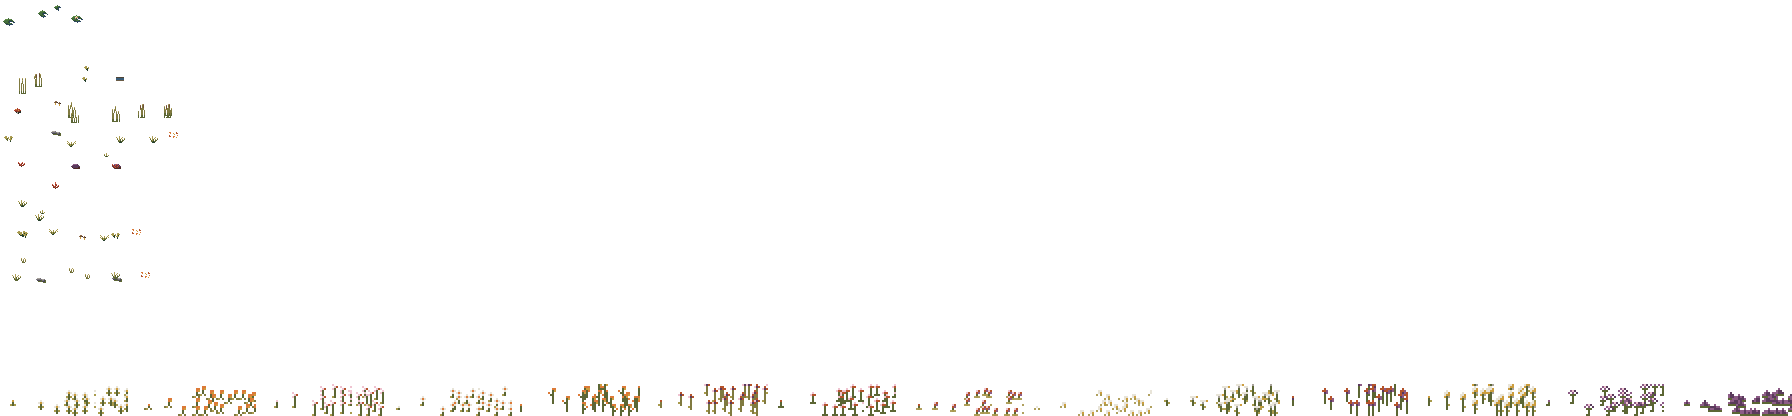
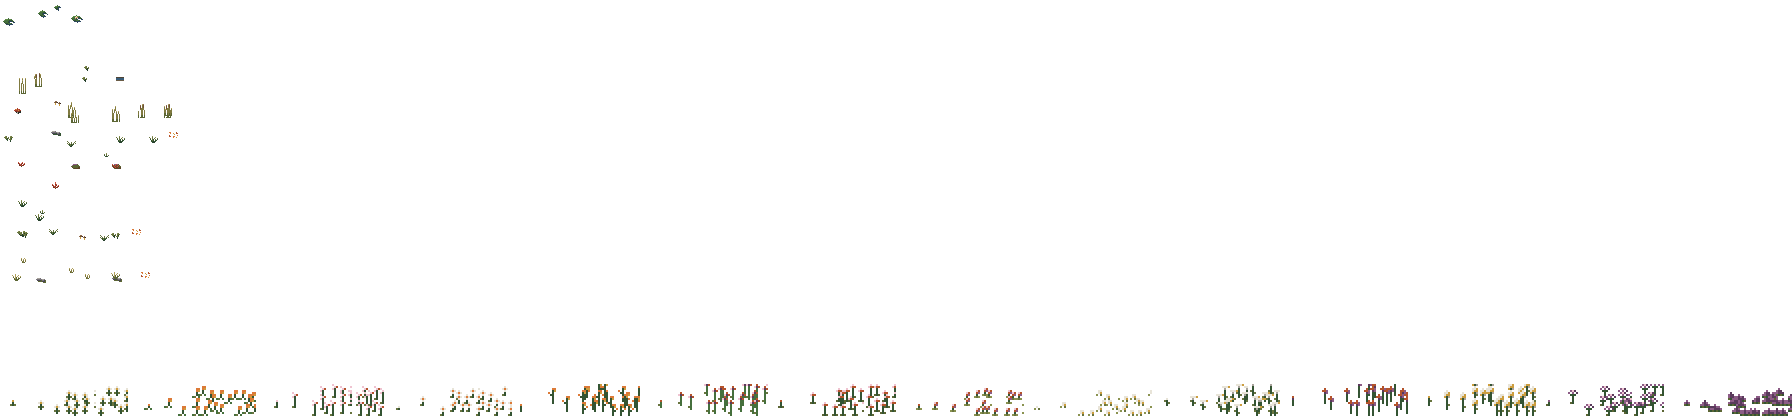
Seasons: autumn keeps the marsh green, straw only on the dry grass
From the art review (2026-11-08): autumn turned all grass one straw yellow, so reeds, tall
grass and the willow vanished into it. Now the ground's autumn look is by terrain layer
(seasons.LAYER_REMAPS): the grass of the marsh, the floodplain, the Warft and the paths stay
green with olive tips and withered flowers, as the marsh stays green until November, and
only the dry grass of the Geest turns straw. The salt marsh reads as marsh too: its turf
stays olive in autumn with patches of red-purple glasswort (it was purple all over with rust
blotches), and in summer its patches are a cool green, not dry grass.

diff --git a/tools/art/seasons.py b/tools/art/seasons.py
@@ -62,6 +62,7 @@ _SPRING_GREENS = {
     "green": "spring",
     "green_dark": "spring_dark",
 }
+# Autumn straw and yellow: the dry grass of the Geest, the dyke and the tall grass.
 _AUTUMN_GRASS = {
     "green_bright": "straw",
     "green_light": "autumn_light",
@@ -72,6 +73,16 @@ _AUTUMN_GRASS = {
     "meadow": "olive",
     "meadow_light": "reed",
     # Flowers wither to dry heads and fallen leaves.
+    "cream": "ochre",
+    "gold": "flame",
+    "petal": "rust",
+}
+# Autumn everywhere else: the grass of the marsh stays green until November, only its tips and
+# the damp meadow's turn olive, and its flowers wither.
+_AUTUMN_MARSH = {
+    "green_bright": "dry_light",
+    "green_light": "dry",
+    "meadow_light": "dry",
     "cream": "ochre",
     "gold": "flame",
     "petal": "rust",
@@ -145,13 +156,15 @@ _FROST_STALKS = {"green_bright": "snow_light", "green_light": "snow_shadow", "gr
 GROUND_REMAPS = {
     "spring": _SPRING_GREENS,
     "summer": {},
-    "autumn": _AUTUMN_GRASS,
+    "autumn": _AUTUMN_MARSH,
     "bare": _BARE_GROUND,
     "frost": _FROST_GROUND,
     "snow": _WINTER_GROUND,
     # Only its decorations use this; see terrain_rows.
     "dusting": _FROST_GROUND,
 }
+# The terrain layers (terrain.LAYERS, by name) whose look differs from the rest of the ground's.
+LAYER_REMAPS = {"autumn": {"dry_grass": _AUTUMN_GRASS}}
 # What decoration tufts and plants turn into: dry stalks from the bare look on.
 STANDING = {"bare": WINTER_STALKS, "frost": _FROST_STALKS, "snow": WINTER_STALKS, "dusting": _FROST_STALKS}
 
@@ -161,10 +174,10 @@ STANDING = {"bare": WINTER_STALKS, "frost": _FROST_STALKS, "snow": WINTER_STALKS
 SALT_MARSH_LOOKS = {
     "spring": {"salt": "dry", "salt_patch": "olive", "salt_light": "spring_light",
                "salt_dark": "green_dark", "glasswort": "spring", "glasswort_dark": "spring_dark"},
-    "summer": {"salt": "olive", "salt_patch": "dry", "salt_light": "frost",
+    "summer": {"salt": "olive", "salt_patch": "meadow", "salt_light": "frost",
                "salt_dark": "green_dark", "glasswort": "green_bright", "glasswort_dark": "green_light"},
-    "autumn": {"salt": "heather_dark", "salt_patch": "rust_dark", "salt_light": "heather",
-               "salt_dark": "russet_deep", "glasswort": "red_light", "glasswort_dark": "rust_dark"},
+    "autumn": {"salt": "olive", "salt_patch": "heather_dark", "salt_light": "heather",
+               "salt_dark": "umber", "glasswort": "red_light", "glasswort_dark": "rust_dark"},
     "bare": {"salt": "bare", "salt_patch": "mud", "salt_light": "bare_light",
              "salt_dark": "mud_dark", "glasswort": "umber", "glasswort_dark": "soil_dark"},
     "frost": {"salt": "frost", "salt_patch": "snow_shadow", "salt_light": "snow_shadow",
@@ -299,12 +312,18 @@ def remap(canvas, mapping):
     return [[mapping.get(name, name) for name in row] for row in canvas]
 
 
-def ground_rows(look, rows, extra_remap=None):
-    """Terrain or decoration rows (the layers bottom to top) in a look, with `extra_remap`
-    applied over the look's own and the salt marsh's logical colours made real. Water stays as it
-    is: freezing it belongs to the weather."""
-    mapping = {**GROUND_REMAPS[look], **SALT_MARSH_LOOKS[look], **(extra_remap or {})}
-    return [rows[0]] + [[remap(tile, mapping) for tile in row] for row in rows[1:]]
+def ground_rows(look, rows, layers, extra_remap=None):
+    """Terrain or decoration rows in a look, with `extra_remap` applied over the look's own and
+    the salt marsh's logical colours made real. `layers` names the terrain layer of each row
+    (terrain.LAYERS), bottom to top; a row past them (the meadow flowers) has the look of the
+    ground. Water stays as it is: freezing it belongs to the weather."""
+    base = {**GROUND_REMAPS[look], **SALT_MARSH_LOOKS[look], **(extra_remap or {})}
+    result = [rows[0]]
+    for index, row in enumerate(rows[1:], start=1):
+        layer = layers[index] if index < len(layers) else None
+        mapping = {**base, **LAYER_REMAPS.get(look, {}).get(layer, {})}
+        result.append([remap(tile, mapping) for tile in row])
+    return result
 
 
 def sparkle(tile, rng, count):
@@ -339,17 +358,17 @@ def dust(tile, rng):
     ]
 
 
-def terrain_rows(look, rows):
+def terrain_rows(look, rows, layers):
     """The terrain rows in a look. A frost gets a sprinkle of rime, a dusting is the snow thinned
     out; the rest is `ground_rows`. Under snow, the bare patches of trodden grass are footprints
     (see `_TRODDEN_SNOW`)."""
     if look == "dusting":
-        snowy = ground_rows("snow", rows)
+        snowy = ground_rows("snow", rows, layers)
         return [snowy[0]] + [
             [dust(tile, random.Random(f"dust-{r}-{c}")) for c, tile in enumerate(row)]
             for r, row in enumerate(snowy[1:])
         ]
-    result = ground_rows(look, rows, _TRODDEN_SNOW if look == "snow" else None)
+    result = ground_rows(look, rows, layers, _TRODDEN_SNOW if look == "snow" else None)
     if look == "frost":
         for r, row in enumerate(result[1:]):
             for c, tile in enumerate(row):

diff --git a/tools/art/generate.py b/tools/art/generate.py
@@ -261,6 +261,7 @@ def write_seasonal_art():
     keeps the plain names; the other looks add theirs, e.g. terrain_snow.png."""
     terrain_rows = []
     decoration_rows = []
+    layers = [layer.__name__ for layer in terrain.LAYERS]
     for layer in terrain.LAYERS:
         tiles, decorations = layer()
         # Full tiles hide the layers below them, so they must be opaque.
@@ -287,8 +288,8 @@ def write_seasonal_art():
     for look in seasons.LOOKS:
         suffix = "" if look == "summer" else f"_{look}"
         if look in seasons.GROUND_LOOKS:
-            save(seasons.terrain_rows(look, terrain_rows), f"terrain{suffix}.png", GAME_TILE)
-            decorations = seasons.ground_rows(look, decoration_rows, seasons.STANDING.get(look))
+            save(seasons.terrain_rows(look, terrain_rows, layers), f"terrain{suffix}.png", GAME_TILE)
+            decorations = seasons.ground_rows(look, decoration_rows, layers, seasons.STANDING.get(look))
             save(decorations, f"decorations{suffix}.png", GAME_TILE)
         save(seasons.object_rows(look, objects, redraws), f"objects{suffix}.png", OBJECT_CELL_WIDTH, OBJECT_CELL_HEIGHT)
         if look in seasons.HOUSE_LOOKS:
